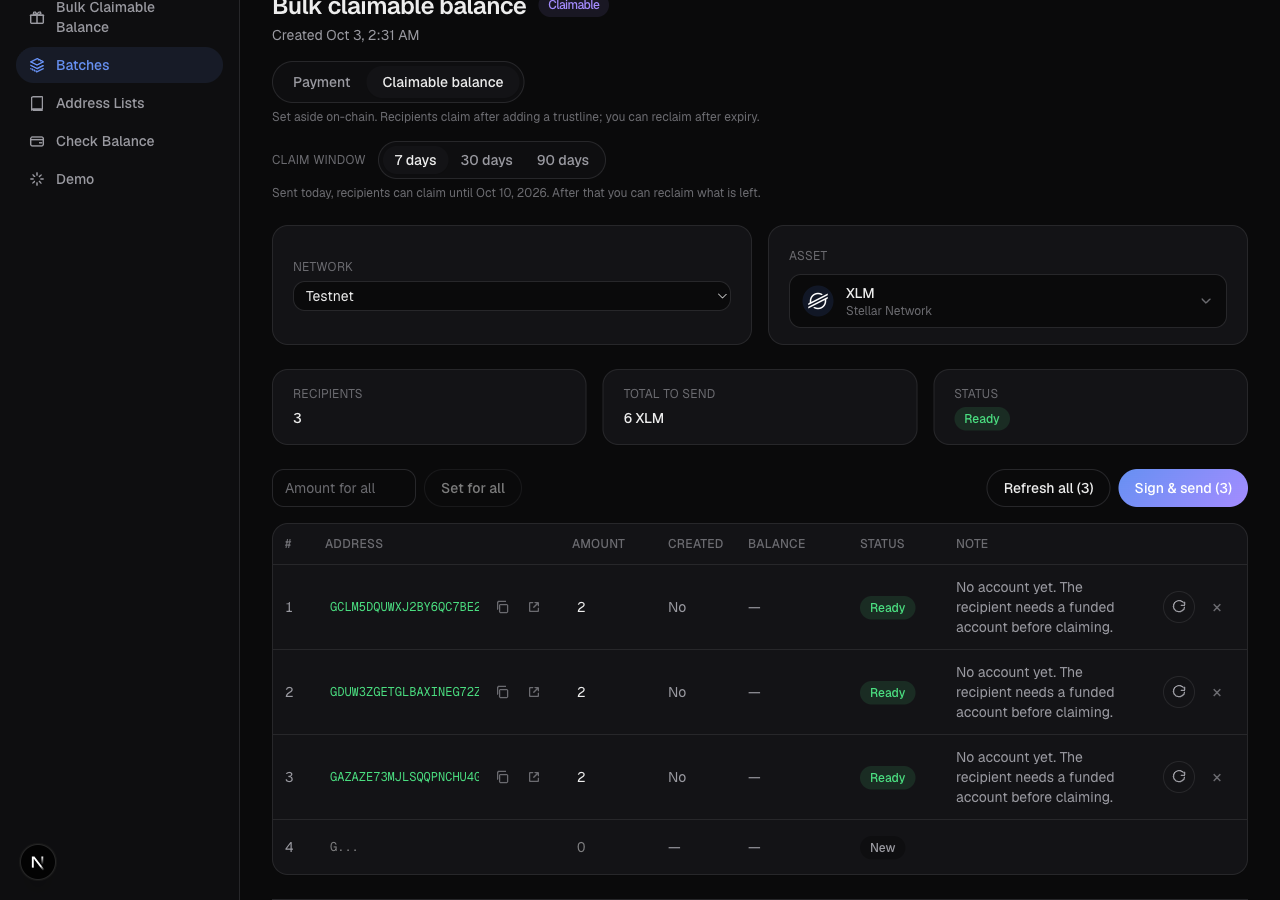
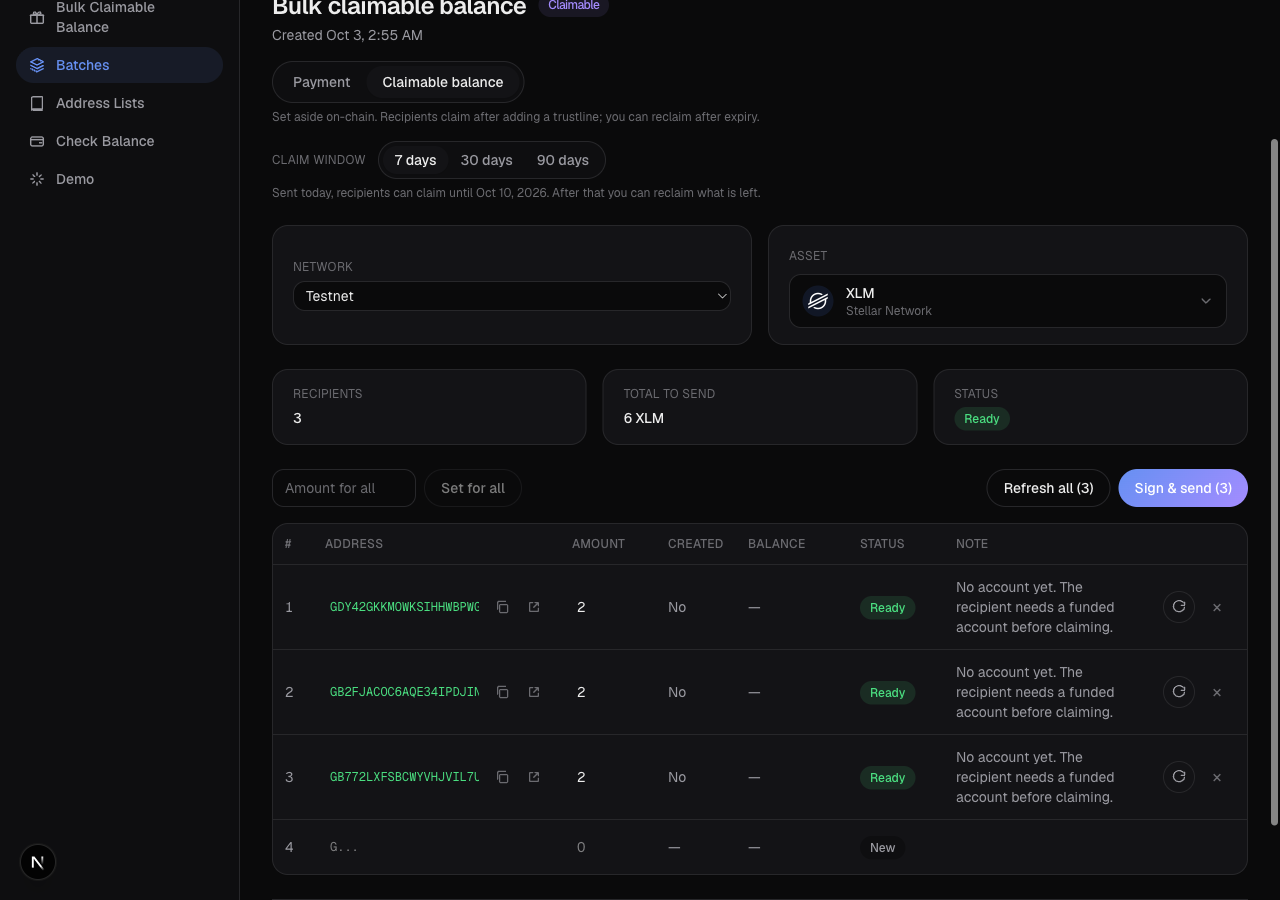
feat: track whether each claimable balance was claimed or reclaimed
The batch page reads every still-unclaimed balance from Horizon: one
still on the ledger is waiting; one that is gone was taken by whoever
signed its claim operation, the recipient (claimed) or the sender
after the window closed (reclaimed). The claim transaction and time
are stored per row.

A claim status card on the Send stage shows "Claimed x of y", what is
still waiting, what was reclaimed and how long is left; each row shows
its own Unclaimed / Claimed / Reclaimed pill linked to the claim. It
syncs once per visit and on Refresh (POST
/api/batches/[id]/claims/sync).

Verified on Testnet with a real recipient claim and a short window that
closed before the sender reclaimed.

diff --git a/src/lib/distribution/claims.integration.test.ts b/src/lib/distribution/claims.integration.test.ts
@@ -1,0 +1,73 @@
+import { afterAll, describe, expect, it, vi } from "vitest";
+import { Operation } from "@stellar/stellar-sdk";
+import { prisma } from "@/lib/db/prisma";
+import type { DistributionOp } from "./buildChunks";
+import { authorizeRun, prepareRun } from "./engine";
+import { driveToEnd, fundedAccount, randomKeys, seedBatch, signLikeWallet, submitAs, TESTNET } from "./testSupport";
+
+const session = vi.hoisted(() => ({ publicKey: "" }));
+vi.mock("@/lib/auth/batchAccess", async (orig) => ({
+  ...(await orig<typeof import("@/lib/auth/batchAccess")>()),
+  resolveBatchAccess: async () => ({ publicKey: session.publicKey, anonId: null }),
+}));
+const { POST: syncRoute } = await import("@/app/api/batches/[batchId]/claims/sync/route");
+
+async function sendClaimables(sender: Awaited<ReturnType<typeof fundedAccount>>, destinations: string[], expiresAt: Date) {
+  const batch = await seedBatch(sender.publicKey(), destinations, "CLAIMABLE_BALANCE", "3", { claimExpiresAt: expiresAt });
+  const ops: DistributionOp[] = batch.recipients.map((r) => ({ kind: "createClaimableBalance", recipientId: r.id, destination: r.destination, amount: "3" }));
+  const prepared = await prepareRun({
+    batchId: batch.id,
+    network: TESTNET,
+    sourceAccount: sender.publicKey(),
+    idempotencyKey: `claims-${batch.id}`,
+    asset: null,
+    ops,
+    claimExpiresAt: expiresAt,
+  });
+  await authorizeRun(prepared.runId, signLikeWallet(prepared.setupXdr, sender));
+  expect((await driveToEnd(prepared.runId)).status).toBe("COMPLETED");
+  return prisma.recipient.findMany({ where: { batchId: batch.id }, orderBy: { rowIndex: "asc" } });
+}
+
+const sync = async (batchId: string) => (await (await syncRoute(new Request("http://test", { method: "POST" }), { params: Promise.resolve({ batchId }) })).json()).claims;
+
+describe.skipIf(!!process.env.CI)("claim status sync (Testnet)", () => {
+  const batchIds: string[] = [];
+  afterAll(() => prisma.batch.deleteMany({ where: { id: { in: batchIds } } }));
+
+  it("tells claimed from waiting, and reclaimed after the window closes", async () => {
+    const sender = await fundedAccount();
+    session.publicKey = sender.publicKey();
+    const claimer = await fundedAccount();
+
+    // Batch A: one recipient claims, one does not.
+    const a = await sendClaimables(sender, [claimer.publicKey(), ...randomKeys(1)], new Date(Date.now() + 86_400_000));
+    batchIds.push(a[0].batchId);
+    await submitAs(claimer, (b) => b.addOperation(Operation.claimClaimableBalance({ balanceId: a[0].claimableBalanceId! })));
+    const claimsA = await sync(a[0].batchId);
+    expect(claimsA).toMatchObject({ created: 2, claimed: 1, unclaimed: 1, reclaimed: 0 });
+    const rowsA = await prisma.recipient.findMany({ where: { batchId: a[0].batchId }, orderBy: { rowIndex: "asc" } });
+    expect(rowsA[0]).toMatchObject({ claimStatus: "CLAIMED" });
+    expect(rowsA[0].claimTxHash).toMatch(/^[0-9a-f]{64}$/);
+    expect(rowsA[0].claimedAt).toBeInstanceOf(Date);
+    expect(rowsA[1].claimStatus).toBe("UNCLAIMED");
+
+    // Batch B: a short window; once it closes the sender takes it back.
+    const deadline = new Date(Date.now() + 45_000);
+    const b = await sendClaimables(sender, randomKeys(1), deadline);
+    batchIds.push(b[0].batchId);
+    await new Promise((r) => setTimeout(r, Math.max(0, deadline.getTime() - Date.now()) + 8_000));
+    await submitAs(sender, (tx) => tx.addOperation(Operation.claimClaimableBalance({ balanceId: b[0].claimableBalanceId! })));
+    expect(await sync(b[0].batchId)).toMatchObject({ created: 1, reclaimed: 1, claimed: 0, unclaimed: 0 });
+    expect((await prisma.recipient.findFirstOrThrow({ where: { batchId: b[0].batchId } })).claimStatus).toBe("RECLAIMED");
+  }, 300_000);
+
+  it("refuses payment batches", async () => {
+    const owner = await fundedAccount();
+    session.publicKey = owner.publicKey();
+    const batch = await seedBatch(owner.publicKey(), randomKeys(1));
+    batchIds.push(batch.id);
+    const res = await syncRoute(new Request("http://test", { method: "POST" }), { params: Promise.resolve({ batchId: batch.id }) });
+    expect(res.status).toBe(400);
+  });
+});

diff --git a/src/lib/distribution/claims.ts b/src/lib/distribution/claims.ts
@@ -1,0 +1,83 @@
+import pLimit from "p-limit";
+import { MuxedAccount, StrKey } from "@stellar/stellar-sdk";
+import type { ClaimStatus, Network } from "@/generated/prisma/enums";
+import { prisma } from "@/lib/db/prisma";
+import { getHorizonServer } from "@/lib/stellar/client";
+
+export type ClaimSummary = {
+  created: number;
+  unclaimed: number;
+  claimed: number;
+  reclaimed: number;
+  expiresAt: Date | null;
+  syncedAt: Date;
+};
+
+function baseAccount(address: string) {
+  return StrKey.isValidMed25519PublicKey(address) ? MuxedAccount.fromAddress(address, "0").baseAccount().accountId() : address;
+}
+
+type Outcome = { status: ClaimStatus; txHash: string | null; at: Date | null };
+
+/**
+ * What happened to one balance. Still on the ledger: unclaimed. Gone: its
+ * claim operation says who took it, the recipient (claimed) or the
+ * sender after expiry (reclaimed).
+ */
+export async function balanceOutcome(network: Network, balanceId: string, recipient: string, sender: string): Promise<Outcome | null> {
+  const horizon = getHorizonServer(network);
+  try {
+    await horizon.claimableBalances().claimableBalance(balanceId).call();
+    return { status: "UNCLAIMED", txHash: null, at: null };
+  } catch (err) {
+    if ((err as { response?: { status?: number } }).response?.status !== 404) throw err;
+  }
+  const ops = await horizon.operations().forClaimableBalance(balanceId).order("desc").limit(20).call();
+  const claim = ops.records.find((op) => op.type === "claim_claimable_balance") as
+    | { source_account: string; transaction_hash: string; created_at: string }
+    | undefined;
+  if (!claim) return null; // history not available; leave as is
+  const by = baseAccount(claim.source_account);
+  // Only the two claimants can take it: the sender means a reclaim.
+  void recipient;
+  const status: ClaimStatus = by === baseAccount(sender) ? "RECLAIMED" : "CLAIMED";
+  return { status, txHash: claim.transaction_hash, at: new Date(claim.created_at) };
+}
+
+/** Reads every still-unclaimed balance of the batch from Horizon and records what happened. */
+export async function syncClaimStatuses(batchId: string): Promise<ClaimSummary> {
+  const batch = await prisma.batch.findUniqueOrThrow({ where: { id: batchId } });
+  const open = await prisma.recipient.findMany({
+    where: { batchId, claimableBalanceId: { not: null }, claimStatus: "UNCLAIMED" },
+    select: { id: true, destination: true, claimableBalanceId: true },
+  });
+  const sender = batch.sourceAccount ?? batch.ownerPublicKey ?? "";
+  const limit = pLimit(5);
+  await Promise.all(
+    open.map((r) =>
+      limit(async () => {
+        const outcome = await balanceOutcome(batch.network, r.claimableBalanceId!, r.destination, sender).catch(() => null);
+        if (!outcome || outcome.status === "UNCLAIMED") return;
+        await prisma.recipient.update({
+          where: { id: r.id },
+          data: { claimStatus: outcome.status, claimTxHash: outcome.txHash, claimedAt: outcome.at },
+        });
+      })
+    )
+  );
+  return claimSummary(batchId);
+}
+
+export async function claimSummary(batchId: string): Promise<ClaimSummary> {
+  const batch = await prisma.batch.findUniqueOrThrow({ where: { id: batchId }, select: { claimExpiresAt: true } });
+  const groups = await prisma.recipient.groupBy({
+    by: ["claimStatus"],
+    where: { batchId, claimStatus: { not: null } },
+    _count: { _all: true },
+  });
+  const count = (s: ClaimStatus) => groups.find((g) => g.claimStatus === s)?._count._all ?? 0;
+  const unclaimed = count("UNCLAIMED");
+  const claimed = count("CLAIMED");
+  const reclaimed = count("RECLAIMED");
+  return { created: unclaimed + claimed + reclaimed, unclaimed, claimed, reclaimed, expiresAt: batch.claimExpiresAt, syncedAt: new Date() };
+}

diff --git a/src/components/distribution/ClaimStatusCard.tsx b/src/components/distribution/ClaimStatusCard.tsx
@@ -1,0 +1,94 @@
+"use client";
+
+export type ClaimSummaryView = {
+  created: number;
+  unclaimed: number;
+  claimed: number;
+  reclaimed: number;
+  expiresAt: string | null;
+  syncedAt: string;
+};
+
+function timeLeft(expiresAt: string | null) {
+  if (!expiresAt) return null;
+  const ms = new Date(expiresAt).getTime() - Date.now();
+  if (ms <= 0) return { expired: true, label: "Claim window closed" };
+  const days = Math.floor(ms / 86_400_000);
+  const hours = Math.floor((ms % 86_400_000) / 3_600_000);
+  return { expired: false, label: days > 0 ? `${days}d ${hours}h left to claim` : `${hours}h left to claim` };
+}
+
+function Stat({ label, value, tone }: { label: string; value: number; tone: string }) {
+  return (
+    <div className="flex flex-col">
+      <span className={`text-2xl font-semibold tabular-nums ${tone}`}>{value}</span>
+      <span className="text-xs text-ink-muted">{label}</span>
+    </div>
+  );
+}
+
+/**
+ * Where each claimable balance stands: still waiting, claimed by its
+ * recipient, or taken back by the sender after the window closed.
+ */
+export function ClaimStatusCard({
+  summary,
+  syncing,
+  onRefresh,
+  action,
+}: {
+  summary: ClaimSummaryView;
+  syncing: boolean;
+  onRefresh: () => void;
+  action?: React.ReactNode;
+}) {
+  const left = timeLeft(summary.expiresAt);
+  const pct = summary.created > 0 ? Math.round((summary.claimed / summary.created) * 100) : 0;
+  return (
+    <section aria-label="Claim status" className="rounded-2xl border border-hairline bg-surface p-5 shadow-sm">
+      <header className="flex flex-wrap items-baseline justify-between gap-2">
+        <div>
+          <h2 className="text-base font-semibold text-ink">
+            Claimed {summary.claimed} of {summary.created}
+          </h2>
+          {left && <p className={`mt-0.5 text-xs ${left.expired ? "text-warning" : "text-ink-muted"}`}>{left.label}</p>}
+        </div>
+        <button
+          type="button"
+          onClick={onRefresh}
+          disabled={syncing}
+          className="cursor-pointer rounded-full border border-hairline px-3 py-1.5 text-xs font-medium text-ink hover:bg-sidebar disabled:cursor-not-allowed disabled:opacity-50"
+        >
+          {syncing ? "Checking…" : "Refresh"}
+        </button>
+      </header>
+      <div className="mt-3 h-1.5 overflow-hidden rounded-full bg-sidebar">
+        <div className="h-full rounded-full bg-success transition-[width] duration-700" style={{ width: `${pct}%` }} />
+      </div>
+      <div className="mt-4 grid grid-cols-3 gap-4">
+        <Stat label="Waiting" value={summary.unclaimed} tone="text-ink" />
+        <Stat label="Claimed" value={summary.claimed} tone="text-success" />
+        <Stat label="Reclaimed" value={summary.reclaimed} tone="text-warning" />
+      </div>
+      {action && <div className="mt-4 flex justify-end">{action}</div>}
+    </section>
+  );
+}
+
+const PILL: Record<string, string> = {
+  UNCLAIMED: "bg-sidebar text-ink-muted",
+  CLAIMED: "bg-success-soft text-success",
+  RECLAIMED: "bg-warning-soft text-warning",
+};
+const LABEL: Record<string, string> = { UNCLAIMED: "Unclaimed", CLAIMED: "Claimed", RECLAIMED: "Reclaimed" };
+
+export function ClaimPill({ status, href }: { status: string; href?: string | null }) {
+  const pill = <span className={`rounded-full px-2 py-0.5 text-[11px] font-medium ${PILL[status] ?? ""}`}>{LABEL[status] ?? status}</span>;
+  return href ? (
+    <a href={href} target="_blank" rel="noopener noreferrer" className="hover:opacity-80">
+      {pill}
+    </a>
+  ) : (
+    pill
+  );
+}

diff --git a/src/app/(app)/batches/[batchId]/page.tsx b/src/app/(app)/batches/[batchId]/page.tsx
@@ -14,6 +14,7 @@ import { DistributionProgress } from "@/components/distribution/DistributionProg
 import { KindBadge } from "@/components/batches/KindBadge";
 import { KindSwitch } from "@/components/batches/KindSwitch";
 import { ClaimWindowPicker } from "@/components/batches/ClaimWindowPicker";
+import { ClaimPill, ClaimStatusCard, type ClaimSummaryView } from "@/components/distribution/ClaimStatusCard";
 import { isConvertible } from "@/lib/distribution/convertRules";
 import { PreflightProblems, SendReviewCard } from "@/components/distribution/SendReviewCard";
 
@@ -43,6 +44,9 @@ type Recipient = {
   hasTrustline: boolean | null;
   status: string;
   errorMessage: string | null;
+  claimStatus?: "UNCLAIMED" | "CLAIMED" | "RECLAIMED" | null;
+  claimTxHash?: string | null;
+  claimableBalanceId?: string | null;
   channelItems?: { status: string; resultCode: string | null; transaction: { stellarTxHash: string | null; transactionHash: string } }[];
 };
 
@@ -578,6 +582,29 @@ export default function BatchReviewPage() {
     [batchId, load]
   );
 
+  const [claims, setClaims] = useState<ClaimSummaryView | null>(null);
+  const [syncingClaims, setSyncingClaims] = useState(false);
+  const syncClaims = useCallback(async () => {
+    setSyncingClaims(true);
+    try {
+      const res = await fetch(`/api/batches/${batchId}/claims/sync`, { method: "POST" });
+      if (!res.ok) return;
+      setClaims((await res.json()).claims);
+      await load();
+    } finally {
+      setSyncingClaims(false);
+    }
+  }, [batchId, load]);
+  const hasBalances = !!batch?.recipients.some((r) => r.claimableBalanceId);
+  const claimsSyncedRef = useRef(false);
+  useEffect(() => {
+    // Once per visit: read claim progress from the network.
+    if (!hasBalances || claimsSyncedRef.current) return;
+    claimsSyncedRef.current = true;
+    const timer = setTimeout(() => void syncClaims(), 0);
+    return () => clearTimeout(timer);
+  }, [hasBalances, syncClaims]);
+
   const convertFailed = useCallback(async () => {
     setBulkBusy("convert");
     try {
@@ -1014,6 +1041,10 @@ export default function BatchReviewPage() {
         </div>
       )}
 
+      {displayedStage === "send" && claims && claims.created > 0 && (
+        <ClaimStatusCard summary={claims} syncing={syncingClaims} onRefresh={() => void syncClaims()} />
+      )}
+
       {displayedStage === "send" && (
         <div className="flex flex-col gap-4">
           <div className="flex flex-wrap justify-end gap-2">
@@ -1368,6 +1399,11 @@ function RecipientsTable({
                     >
                       view tx ↗
                     </a>
+                  )}
+                  {r.claimStatus && (
+                    <span className="ml-2 inline-block align-middle">
+                      <ClaimPill status={r.claimStatus} href={r.claimTxHash ? explorerTxUrl(batch.network, r.claimTxHash) : null} />
+                    </span>
                   )}
                 </td>
                 <td className="px-3 py-3">

diff --git a/src/app/api/batches/[batchId]/claims/sync/route.ts b/src/app/api/batches/[batchId]/claims/sync/route.ts
@@ -1,0 +1,21 @@
+import { NextResponse } from "next/server";
+import { batchAccessWhere, resolveBatchAccess } from "@/lib/auth/batchAccess";
+import { prisma } from "@/lib/db/prisma";
+import { syncClaimStatuses } from "@/lib/distribution/claims";
+import { errorResponse } from "@/lib/distribution/http";
+
+export const maxDuration = 60;
+
+/** Refreshes claimed / reclaimed status of the batch's claimable balances from Horizon. */
+export async function POST(_request: Request, { params }: { params: Promise<{ batchId: string }> }) {
+  const access = await resolveBatchAccess();
+  const { batchId } = await params;
+  const batch = await prisma.batch.findFirst({ where: { id: batchId, ...batchAccessWhere(access) }, select: { id: true, kind: true } });
+  if (!batch) return NextResponse.json({ error: "Batch not found" }, { status: 404 });
+  if (batch.kind !== "CLAIMABLE_BALANCE") return NextResponse.json({ error: "Not a claimable balance batch" }, { status: 400 });
+  try {
+    return NextResponse.json({ claims: await syncClaimStatuses(batchId) });
+  } catch (err) {
+    return errorResponse(err);
+  }
+}

diff --git a/e2e/tests/claimable-send.spec.ts b/e2e/tests/claimable-send.spec.ts
@@ -39,5 +39,12 @@ test("a claimable balance distribution goes out with one signature", async ({ co
   const panel = page.getByRole("region", { name: "Distribution progress" });
   await expect(panel.getByText("Distribution complete")).toBeVisible({ timeout: 90_000 });
   await expect(panel.getByText("3 of 3 delivered on Testnet")).toBeVisible();
+  const claims = page.getByRole("region", { name: "Claim status" });
+  await expect(claims.getByText("Claimed 0 of 3")).toBeVisible({ timeout: 60_000 });
+  await expect(claims.getByText(/left to claim/)).toBeVisible();
+  await expect(page.getByText("Unclaimed").first()).toBeVisible();
+  // Keep notification toasts out of the evidence screenshots.
+  await page.addStyleTag({ content: "[data-sonner-toaster]{display:none !important}" });
+  await claims.screenshot({ path: `${SHOTS}/claim-status.png` });
   await page.screenshot({ path: `${SHOTS}/claimable-sent.png`, fullPage: true });
 });

diff --git a/docs/epics.md b/docs/epics.md
@@ -149,7 +149,7 @@ Environment:
   - Live base reserve × claimants × recipients.
   - Shown in review; blocks the send when U cannot cover it.
   - Testnet spike: create one 2-claimant balance and record the reserve actually locked in PRD section 7.
-- [ ] **T3.5** Claim status.
+- [x] **T3.5** Claim status.
   - `POST /api/batches/[batchId]/claims/sync` reads Horizon: a balance that is gone was claimed by the recipient (`CLAIMED`) or by the sender (`RECLAIMED`).
   - The batch page shows per-row status, totals and time to expiry. Sync runs on load and has a button.
 - [ ] **T3.6** Reclaim. After expiry, a "Reclaim unclaimed" action runs the engine with `claimClaimableBalance` ops (source U, one signature).
@@ -220,3 +220,4 @@ Environment:
 - 2026-10-03 T3.2 done: `KindSwitch` on the batch page (Payment / Claimable balance), locked once a run is signed. `PATCH /api/batches/[id]` takes `kind`, resets rows to PENDING (auto re-check), sets or clears `claimExpiresAt` (30-day default), and cancels any unsigned run so a setup built for the old type can never be approved. Checks route uses `checkOutcome`: payments are unchanged; claimable balances pass with notes (no account yet / no trustline yet / trustline not authorized yet; any XLM amount). New `POST /api/batches/[id]/convert-failed` and a "Send N as claimable balance" button on Confirm and Send. It takes rows failed or check-failed for no account or no trustline (including paymentNoTrust / paymentNoDestination results; never unauthorized trustlines, never XLM) into a new claimable batch with the same owner, source, asset and network, and marks the originals "Moved to a claimable balance batch." so they can't be sent twice or moved twice. Shared rules in client-safe `convertRules.ts`. Tests: 4 unit, 2 route-level Testnet+DB (re-check per type, conversion, unsigned-run cancel, 409 once signed), E2E `type-switch.spec.ts`. Screenshots `convert-failed-rows.png`, `converted-claimable-batch.png`, `type-switch.png`. vitest 150/150, lint, tsc clean.
 - 2026-10-03 T3.3 done. Claimable operations, predicates and balance-id capture already came from T1.3/T1.8. This task adds the claim window: new column `Batch.claimWindowDays` (migration `claim_window_days`) and `ClaimWindowPicker` (7/30/90, default 30) on claimable batches. `PATCH {claimWindowDays}` changes only the window, without resetting checks, and gives 400 on payment batches. Decision: the window counts from sending, so `prepareBatchRun` fixes `claimExpiresAt = now + window` at prepare time, writes it into every predicate and onto the batch, and returns it to the review card ("Claim until"). Tests: claimWindow unit; Testnet: window 7 days, all predicates equal the deadline, run COMPLETED, Horizon `abs_before` on every recipient claimant matches; payment batch refused. E2E `claimable-send.spec.ts` (pick 7 days, notes on Confirm, review shows claimable delivery, claim-until and 3 XLM reserve, approve, 3 of 3 delivered). Screenshots `claimable-confirm.png`, `claimable-review.png`, `claimable-sent.png`. vitest 153/153, lint, tsc clean.
 - 2026-10-03 T3.4 done. The calculator (`reserve.ts`: live base reserve x 2 claimants x balances), the review row and the pre-sign block already existed from T1.11 and T2.2. This task adds the Testnet spike and an end-to-end block test (`reserve.integration.test.ts`). Measured: base reserve 0.5 XLM; one 2-claimant balance raised `num_sponsoring` by 2 and cut spendable XLM by amount + 1 XLM, so 1 XLM per balance (recorded in PRD section 7). A sender with 20 XLM is blocked from 30 balances of 0.1 XLM ("needs 33 XLM free, including 30 XLM locked by claimable balances") and allowed 10 (11 XLM needed). vitest 155/155, lint, tsc clean.
+- 2026-10-03 T3.5 done. `claims.ts` adds `balanceOutcome`: a balance still on Horizon is UNCLAIMED; once gone, its `claim_claimable_balance` operation shows who took it (sender means RECLAIMED, otherwise CLAIMED). With it come `syncClaimStatuses` (only rows still UNCLAIMED, 5 at a time, records claim tx hash and time) and `claimSummary`. Route `POST /api/batches/[id]/claims/sync` (400 for payment batches). UI: `ClaimStatusCard` on the Send stage ("Claimed x of y", progress, waiting / claimed / reclaimed, time left or "window closed", Refresh). The page syncs once per visit when the batch has balances. Each row's Note shows an Unclaimed/Claimed/Reclaimed pill, linked to the claim tx. Tests: Testnet with a real recipient claim, then a 45 s window closing and the sender reclaiming (CLAIMED, UNCLAIMED, RECLAIMED all recorded with tx hashes); E2E claim card after a UI claimable send. Screenshot `claim-status.png` (toasts hidden for evidence shots). vitest 157/157, lint, tsc clean.
